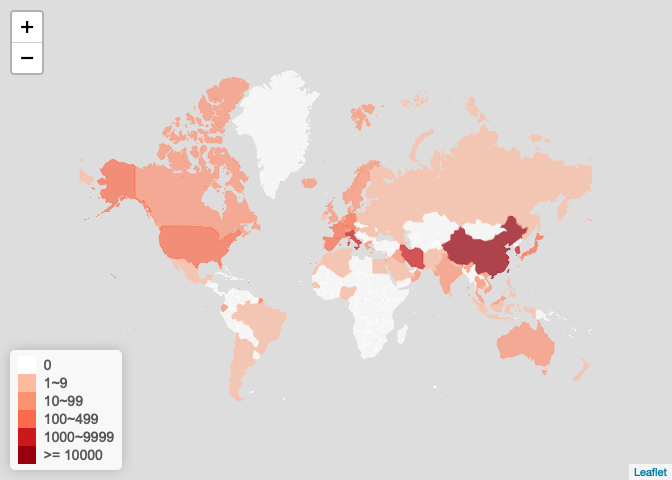
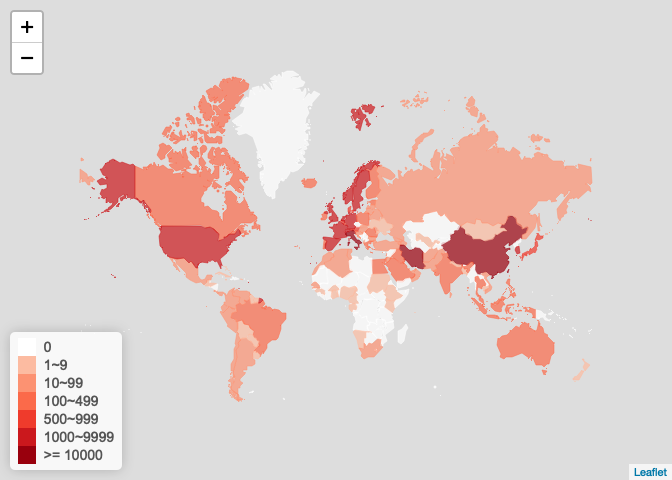
work well with dplyr 1.0.0

diff --git a/README.md b/README.md
@@ -1,6 +1,6 @@
 ncov 2019
 ================
-2020年03月05日
+2020年03月17日
 
 ``` r
 knitr::opts_chunk$set(
@@ -38,8 +38,8 @@ ncov
 ```
 
     ## All COVID 2019 Data
-    ## Updated at 2020-03-05 09:54:02 
-    ## From https://lab.isaaclin.cn/nCoV/api/
+    ## Updated at 2020-03-16 15:44:16 
+    ## From https://github.com/yiluheihei/nCoV-2019-Data
 
 ## 提取省市或国家数据
 
@@ -50,8 +50,8 @@ china
 ```
 
     ## China COVID 2019 Data
-    ## Updated at 2020-03-05 04:27:05 
-    ## From https://lab.isaaclin.cn/nCoV/api/
+    ## Updated at 2020-03-16 13:54:38 
+    ## From https://github.com/yiluheihei/nCoV-2019-Data
 
 ``` r
 # 省市数据
@@ -60,8 +60,8 @@ hubei
 ```
 
     ## Hubei COVID 2019 Data
-    ## Updated at 2020-03-05 07:47:01 
-    ## From https://lab.isaaclin.cn/nCoV/api/
+    ## Updated at 2020-03-16 13:54:01 
+    ## From https://github.com/yiluheihei/nCoV-2019-Data
 
 ``` r
 beijing <- ncov['北京市']
@@ -69,8 +69,8 @@ beijing
 ```
 
     ## Beijing COVID 2019 Data
-    ## Updated at 2020-03-04 23:14:02 
-    ## From https://lab.isaaclin.cn/nCoV/api/
+    ## Updated at 2020-03-16 07:44:16 
+    ## From https://github.com/yiluheihei/nCoV-2019-Data
 
 ``` r
 beijing$cities
@@ -85,8 +85,8 @@ world
 ```
 
     ## World COVID 2019 Data
-    ## Updated at 2020-03-05 02:39:09 
-    ## From https://lab.isaaclin.cn/nCoV/api/
+    ## Updated at 2020-03-16 06:53:45 
+    ## From https://github.com/yiluheihei/nCoV-2019-Data
 
 ## 国内总体疫情图
 
